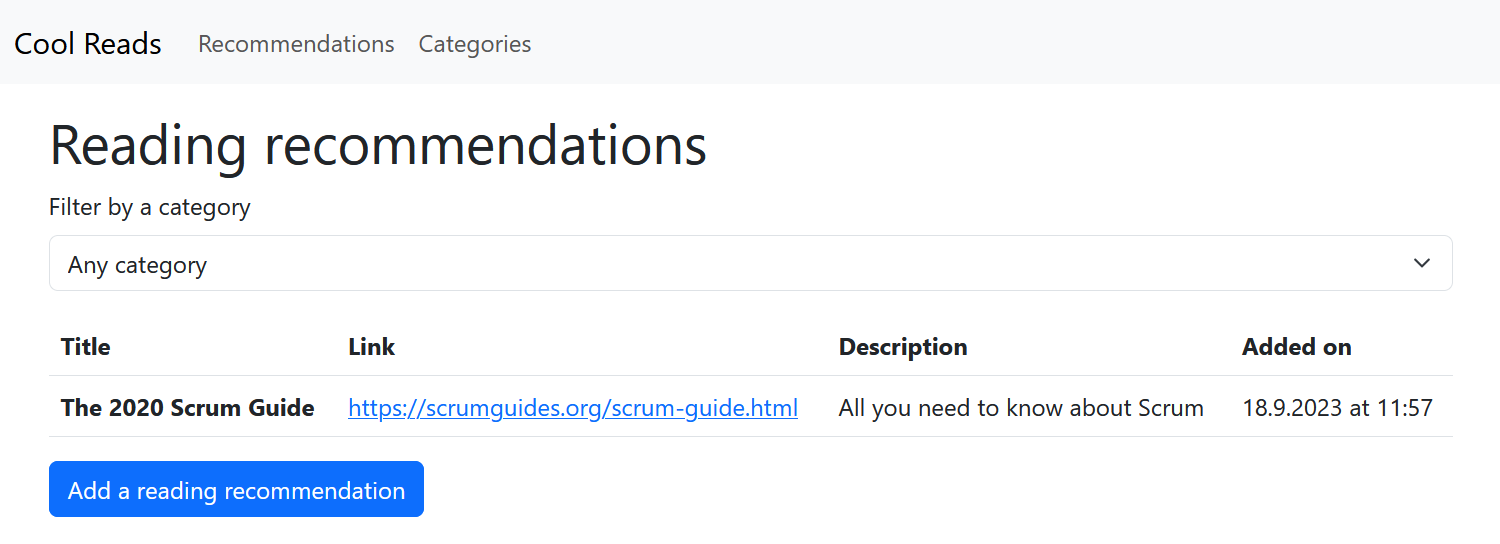
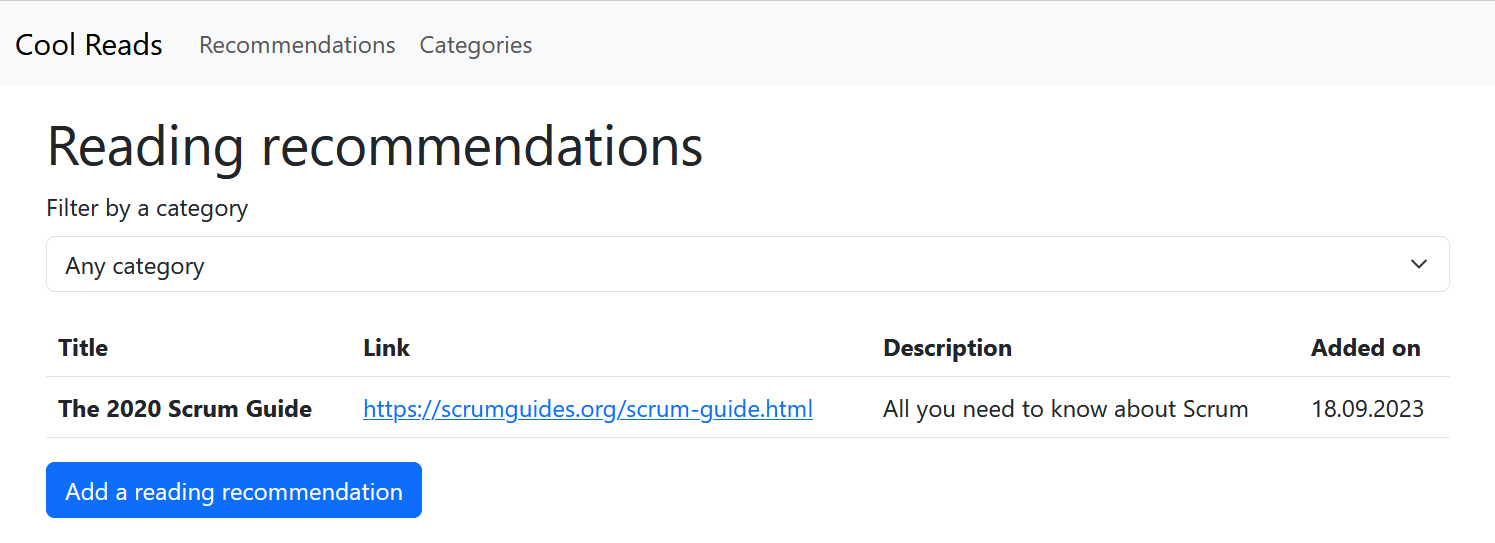
small fixes

diff --git a/user-story-previews/sprint-2-1.html b/user-story-previews/sprint-2-1.html
@@ -39,7 +39,7 @@
             <th>The 2020 Scrum Guide</th>
             <td><a href="https://scrumguides.org/scrum-guide.html">https://scrumguides.org/scrum-guide.html</a></td>
             <td>All you need to know about Scrum</td>
-            <td>18.9.2023 at 11:57</td>
+            <td>18.09.2023</td>
           </tr>
         </tbody>
       </table>

diff --git a/user-story-previews/sprint-2-5.html b/user-story-previews/sprint-2-5.html
@@ -55,7 +55,7 @@
               >
             </td>
             <td>All you need to know about Scrum</td>
-            <td>18.9.2023 at 11:57</td>
+            <td>18.09.2023</td>
           </tr>
         </tbody>
       </table>

diff --git a/material/sprint-2.md b/material/sprint-2.md
@@ -88,10 +88,9 @@ After some discussion the Scrum Team came up with the following user stories:
 
 For the _first user story_, the Developers came up with the following tasks:
 
-1. Add a createdAt attribute of LocalDateTime type for the ReadingRecommendation entity
+1. Add a createdAt attribute of Instant type for the ReadingRecommendation entity
 2. Add a CreationTimestamp annotation for the createdAt attribute
-3. Add a getFormattedCreatedAt method for the ReadingRecommendation entity which returns the formatted createdAt attribute value
-4. Add a "Added on" column which displays the formatted date for the Thymeleaf template
+3. Add a "Added on" column which displays the formatted date for the Thymeleaf template
 
 For the _second user story_, the Developers came up with the following tasks:
 
@@ -145,8 +144,7 @@ At this point it might sense to distribute the workload a bit instead of working
 > Tips for implementing the tasks:
 >
 > - [CreationTimestamp](https://www.baeldung.com/hibernate-creationtimestamp-updatetimestamp)
-> - [DateTimeFormatter](https://www.baeldung.com/java-datetimeformatter)
-> - If the method `getFormattedCreatedAt` returns the formatted date string, you can access it with `th:text="${recommendation.formattedCreatedAt}"` in the Thymeleaf template
+> - You can format an [Instant](https://www.baeldung.com/java-instant-vs-localdatetime) object in a Thymeleaf template like this: `th:text="${#temporals.format(message.createdAt,'dd.MM.yyyy')}"`
 
 {: .important-title }
 
@@ -449,6 +447,7 @@ fetch("/api/messages")
 ```
 
 {: .note }
+
 > Our frontend application's source is served from the same _origin_ as the backend, which is <http://localhost:8080>. This is why don't need to specify the full URL in the `fetch` call, which is <http://localhost:8080/api/messages>. Instead we can specify just the path. For example, the Vite development server serves the source files from a different origin (by default <http://localhost:5173>) and in this case we would need to use the full URL.
 
 The `fetch` function returns a [Promise](https://javascript.info/promise-basics) object. The promise resolves a `Response` object, which contains the response from the server. The response's JSON payload can be parsed into JavaScript objects using the `response.json()` method.
@@ -686,7 +685,7 @@ We have all kinds of cool stuff to show for the Product Owner at the end of this
 
 > Exercise 17
 >
-> Create a GitHub release for the project as instructed in the [GitHub's documentation](https://docs.github.com/en/repositories/releasing-projects-on-github/managing-releases-in-a-repository). Create a new tag called "sprint2". The release title should be "Sprint 2". Give a brief description for the release that describes the features implemented during the Sprint.
+> Once you have implemented the user stories of the Sprint and the main branch has a working version of the application, create a GitHub release for the project as instructed in the [GitHub's documentation](https://docs.github.com/en/repositories/releasing-projects-on-github/managing-releases-in-a-repository). Create a new tag called "sprint2". The release title should be "Sprint 2". Give a brief description for the release that describes the features implemented during the Sprint.
 
 {: .important-title }
 

diff --git a/material/sprint-1.md b/material/sprint-1.md
@@ -447,13 +447,15 @@ The description should be so clear that your fellow student who knows nothing ab
 
 ## GitHub release
 
-Once the GitHub repository's main branch has a working version of the application with the desired features, we should _release_ it for the users. [GitHub release](https://docs.github.com/en/repositories/releasing-projects-on-github/managing-releases-in-a-repository) is a way to "freeze" the source at certain point of the commit history and to provide users a working version of the application. Usually a new version of an application is released at the end of each Sprint. Users can easily browser different versions of the application by going through the releases.
+Once the GitHub repository's main branch has a working version of the application with the desired features at the end of the sprint, we should _release_ it for the users. [GitHub release](https://docs.github.com/en/repositories/releasing-projects-on-github/managing-releases-in-a-repository) is a way to "freeze" the source code of a project at certain point of the commit history and to provide users a working version of the application.
+
+Usually a new version of an application is released at the end of each Sprint. When we create a new release at the end of each Sprint, we will create a _release history_ for the project. Users can easily browse and download the source code of different versions of the application by going through the release history.
 
 {: .important-title }
 
 > Exercise 15
 >
-> Create a GitHub release for the project as instructed in the [GitHub's documentation](https://docs.github.com/en/repositories/releasing-projects-on-github/managing-releases-in-a-repository). Create a new tag called "sprint1". The release title should be "Sprint 1". Give a brief description for the release that describes the features implemented during the Sprint.
+> Once you have implemented the user stories of the Sprint and the main branch has a working version of the application, create a GitHub release for the project as instructed in the [GitHub's documentation](https://docs.github.com/en/repositories/releasing-projects-on-github/managing-releases-in-a-repository). Create a new tag called "sprint1". The release title should be "Sprint 1". Give a brief description for the release that describes the features implemented during the Sprint.
 
 ## Sprint Review
 

diff --git a/material/agile-software-development.md b/material/agile-software-development.md
@@ -11,7 +11,11 @@ nav_order: 3
 
 ## Submitting this week's exercises
 
-All of this week's exercises (exercises 1-7) are submitted to [this Moodle submission]({{site.week_1_moodle_submission_link}}). Submit all exercises as a _single PDF file_. This week's exercises need to be submitted before the deadline on {{site.week_1_deadline}} to confirm the course participation.
+All of this week's exercises (exercises 1-7) are submitted to [this Moodle submission]({{site.week_1_moodle_submission_link}}). Submit all exercises as a _single PDF file_. The submission deadline is on {{site.week_1_deadline}}.
+
+{: .highlight }
+
+> This week's exercises need to be submitted before the deadline on {{site.week_1_deadline}} to confirm the course participation.
 
 ## Agile software development
 
